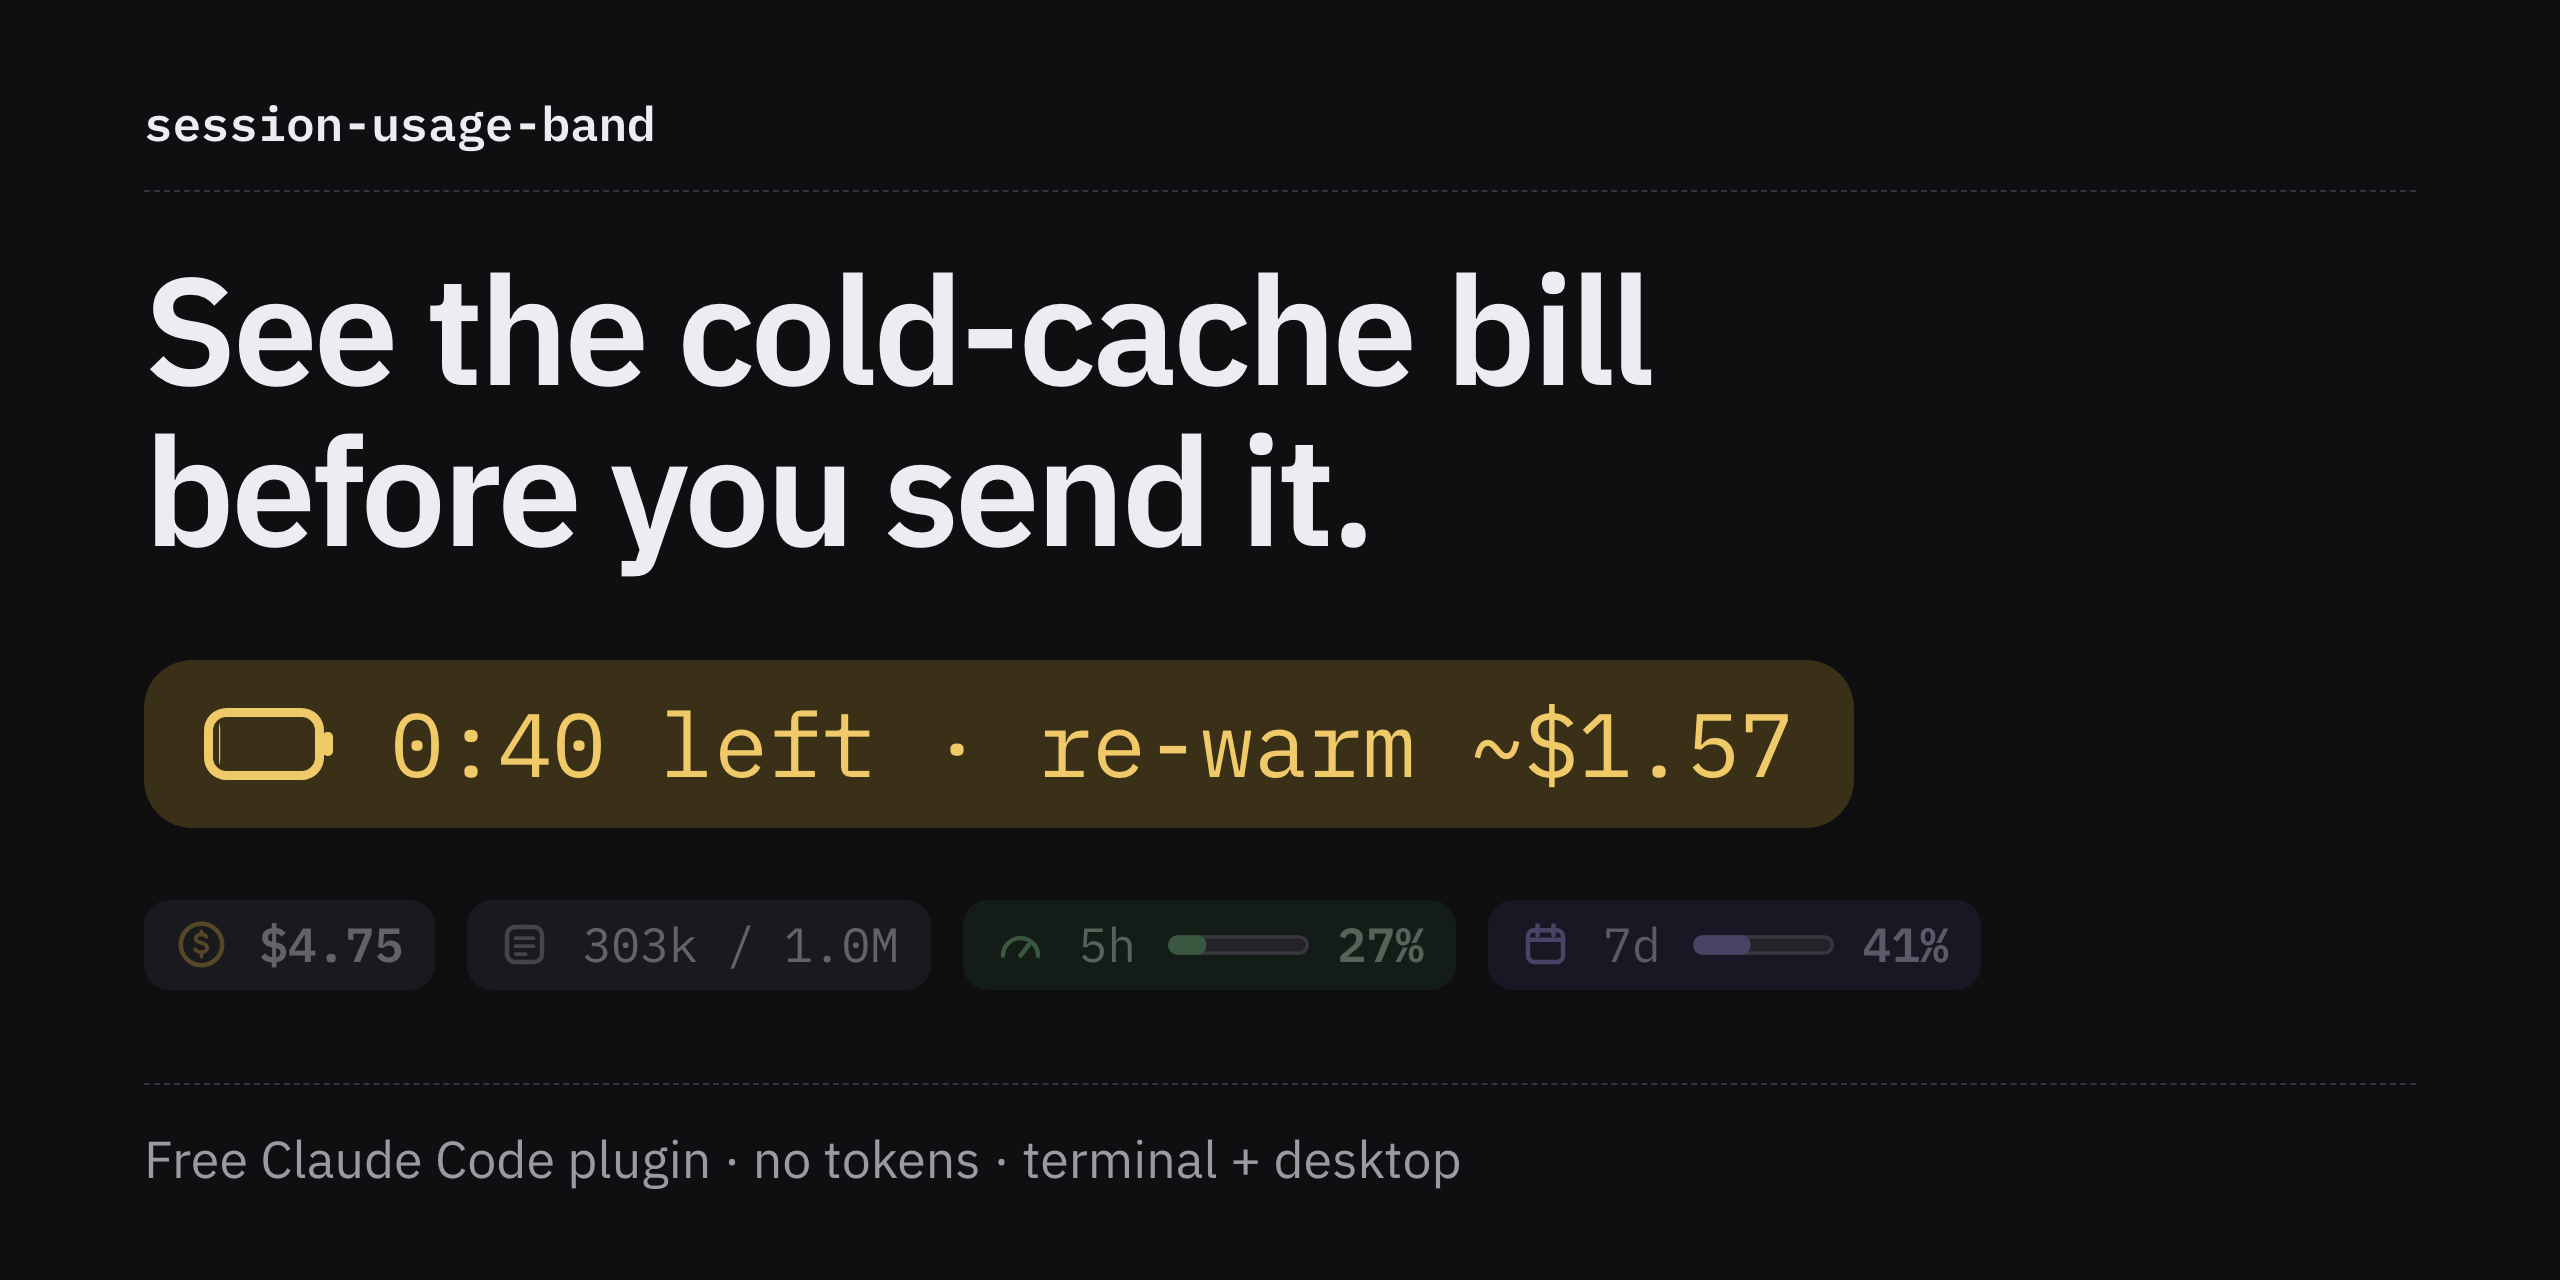
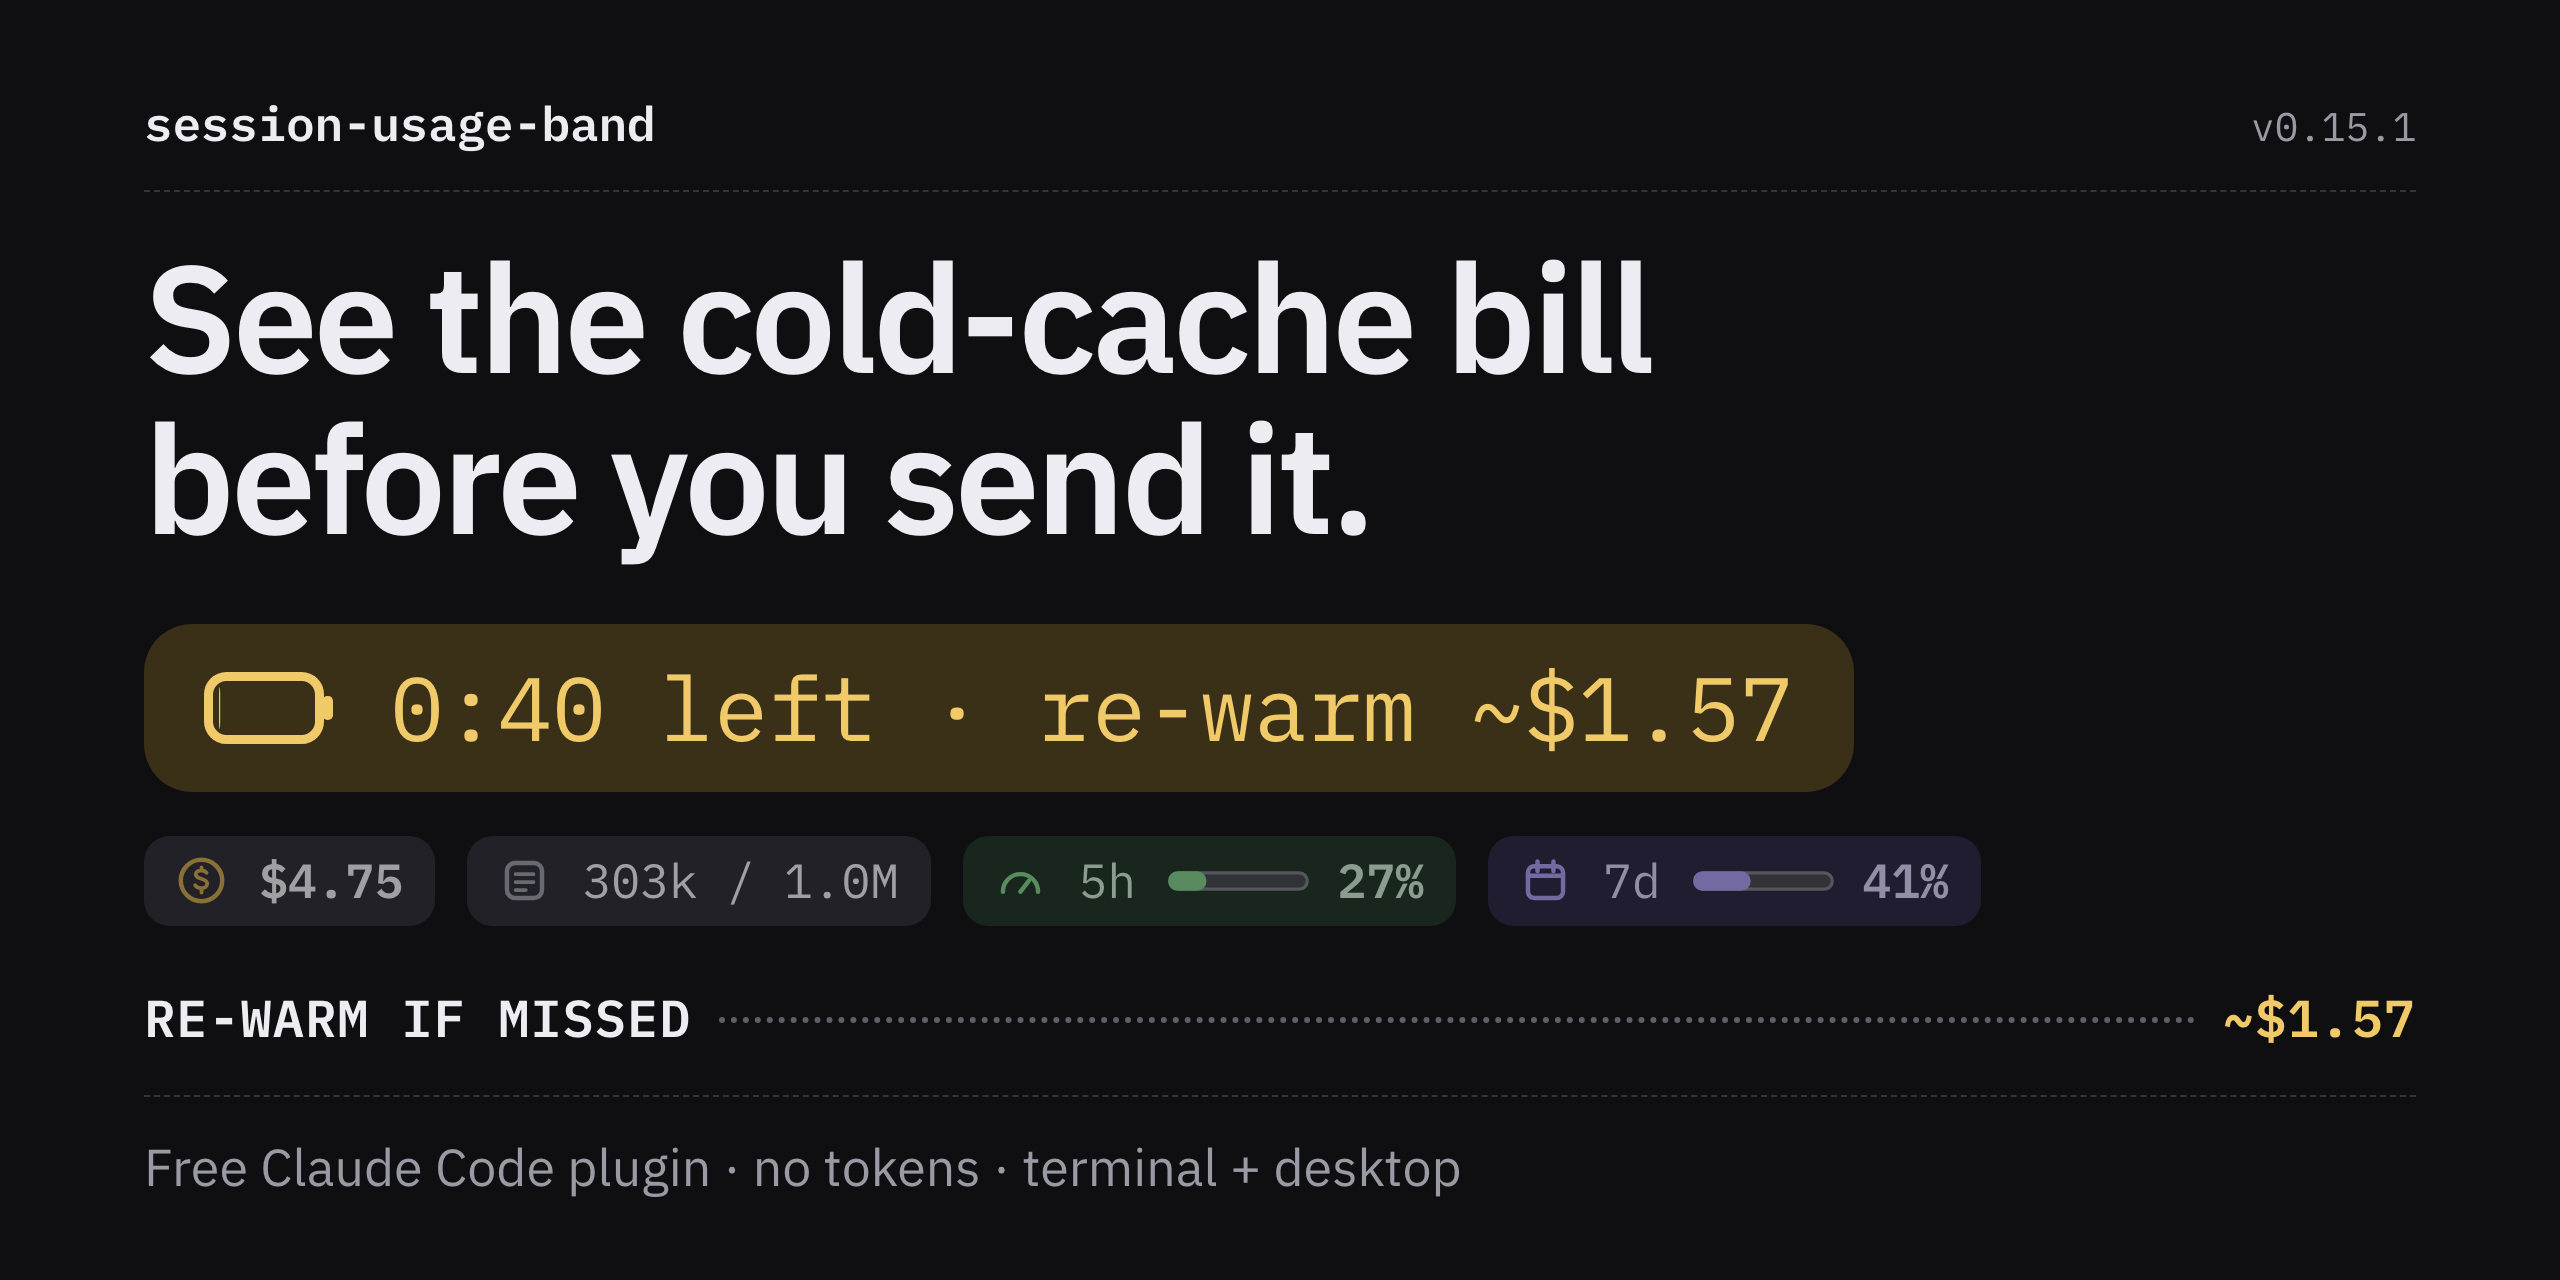
feat(demos): the social card's receipt line and version
The row's other chips at 65% so they read as the band, not disabled; a
RE-WARM IF MISSED line with a dotted leader whose price is read from the
amber chip; the version from the plugin's manifest at the end of the top
rule.

diff --git a/tools/demos/stills.py b/tools/demos/stills.py
@@ -7,13 +7,16 @@ The social card's chips come from demo.txt (beside site.txt unless given).
 """
 import json
 import os
+import re
 import sys
 
 from render_desk import BAND_CSS, node
 
 # The social card, 1280x640 shot at 2x: the page's dark counter and receipt
-# grammar, one big cache chip in its last minute, the rest of the row faded.
-# The chips are the real `chips amber` drawing from demo.txt, never typed.
+# grammar, one big cache chip in its last minute, the rest of the row beneath,
+# and the re-warm price as a receipt line. The chips and the price are the
+# real `chips amber` drawing from demo.txt, the version the plugin's manifest's;
+# never typed.
 SOCIAL = '''<!doctype html><html><head><meta charset="utf-8">
 <link rel="preconnect" href="https://fonts.googleapis.com"><link rel="preconnect" href="https://fonts.gstatic.com" crossorigin>
 <link rel="stylesheet" href="https://fonts.googleapis.com/css2?family=IBM+Plex+Mono:wght@400;600&family=IBM+Plex+Sans:wght@400;600&display=block">
@@ -22,33 +25,56 @@ SOCIAL = '''<!doctype html><html><head><meta charset="utf-8">
 html,body{width:1280px;height:640px;overflow:hidden;background:#0f0f12}
 body{font-family:"IBM Plex Sans",system-ui,-apple-system,sans-serif;-webkit-font-smoothing:antialiased;color:#ececf2;position:relative}
 .mono{font-family:"IBM Plex Mono",ui-monospace,Menlo,monospace}
-.top{position:absolute;left:72px;right:72px;top:46px;padding-bottom:18px;border-bottom:1px dashed #34343c;font-size:24px;font-weight:600;letter-spacing:-.2px}
-h1{position:absolute;left:72px;right:72px;top:124px;font-size:76px;line-height:1.06;font-weight:600;letter-spacing:-2px}
+.top{position:absolute;left:72px;right:72px;top:46px;padding-bottom:18px;border-bottom:1px dashed #34343c;font-size:24px;font-weight:600;letter-spacing:-.2px;display:flex;justify-content:space-between;align-items:baseline}
+.top span{font-size:20px;font-weight:400;color:#9a9aa4}
+h1{position:absolute;left:72px;right:72px;top:118px;font-size:76px;line-height:1.06;font-weight:600;letter-spacing:-2px}
 .big,.rest{position:absolute;left:72px}
-.big{top:330px}
-.rest{top:450px;opacity:.38}
+.big{top:312px}
+.rest{top:418px;opacity:.65}
 .big>div{zoom:3}
 .rest>div{zoom:1.6}
 .big,.rest{font-size:15px;line-height:24px;white-space:pre;color:#ececf2;font-family:"IBM Plex Mono",ui-monospace,Menlo,monospace;font-variant-numeric:tabular-nums}
-.foot{position:absolute;left:72px;right:72px;bottom:44px;padding-top:20px;border-top:1px dashed #34343c;font-size:26px;color:#9a9aa4}
+.line{position:absolute;left:72px;right:72px;top:492px;display:flex;align-items:baseline;gap:14px;font-size:26px;font-weight:600;letter-spacing:.5px;font-variant-numeric:tabular-nums}
+.line i{flex:1;border-bottom:3px dotted #5f5f69;transform:translateY(-7px)}
+.line b{font-weight:600;color:#f0c969}
+.foot{position:absolute;left:72px;right:72px;bottom:40px;padding-top:18px;border-top:1px dashed #34343c;font-size:26px;color:#9a9aa4}
 ''' + BAND_CSS + '''</style></head><body>
-<div class="top mono">session-usage-band</div>
+<div class="top mono">session-usage-band<span>v{version}</span></div>
 <h1>See the cold-cache bill<br>before you send it.</h1>
 <div class="big"><div>{chip}</div></div>
 <div class="rest"><div>{rest}</div></div>
+<div class="line mono">RE-WARM IF MISSED<i></i><b>{rewarm}</b></div>
 <div class="foot">Free Claude Code plugin · no tokens · terminal + desktop</div>
 </body></html>'''
 
 
+def words(n):
+    """The text a drawn tree shows."""
+    if isinstance(n, str):
+        return n
+    if isinstance(n, list):
+        return ''.join(words(c) for c in n)
+    if isinstance(n, dict):
+        return ''.join(words(c) for c in n.get('children') or [])
+    return ''
+
+
+def plugin_version():
+    here = os.path.dirname(os.path.abspath(__file__))
+    return json.load(open(os.path.join(here, '../../plugins/session-usage-band/.claude-plugin/plugin.json')))['version']
+
+
 def social(tree):
     """The social card from the chips layout's last-minute drawing: its cache
-    chip alone, and the row's other chips."""
+    chip alone, the row's other chips, and the chip's re-warm price."""
     row = next(c for c in tree['children'] if (c.get('props') or {}).get('key') == 'row')
     chips = {c['props']['key']: c for c in row['children'] if isinstance(c, dict) and (c.get('props') or {}).get('key')}
     assert 'left' in node(chips['cache']), 'the amber cache chip has no countdown'
     rest = {'type': 'Box', 'props': {'flexDirection': 'row', 'columnGap': 1},
             'children': [chips[k] for k in ('cost', 'ctx', '5h', '7d') if k in chips]}
-    return SOCIAL.replace('{chip}', node(chips['cache'])).replace('{rest}', node(rest))
+    rewarm = re.search(r're-warm (~\$[\d,.]+)', words(chips['cache'])).group(1)
+    return (SOCIAL.replace('{chip}', node(chips['cache'])).replace('{rest}', node(rest))
+            .replace('{rewarm}', rewarm).replace('{version}', plugin_version()))
 
 
 ANATOMY = '''<!doctype html><html><head><meta charset="utf-8"><style>
